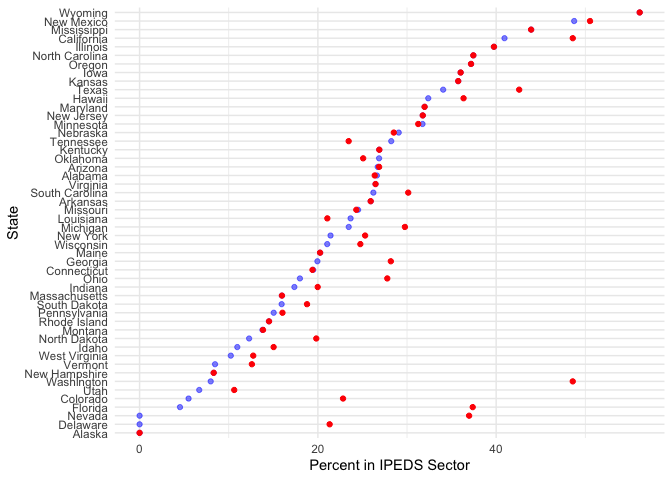
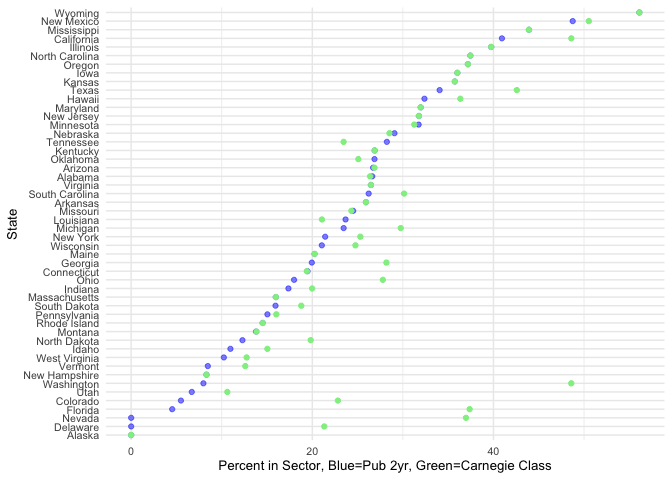
MD document

diff --git a/scripts/ccwhat.md b/scripts/ccwhat.md
@@ -1,9 +1,7 @@
-What is a Commuity College?
+What’s a Community College (Seriously)?
 ================
 Will Doyle
-4/8/2021
-
-## What Is a Community College?
+4/12/2021
 
 In an insightful [New America
 piece](https://www.newamerica.org/education-policy/edcentral/a-different-approach-to-free-community-college/),
@@ -33,14 +31,15 @@ two year institutions that don’t award any bachelor’s degrees:
 
 ## Percent of Students Enrolled in Public Two-Year Colleges, by State: 2019
 
-![](ccwhat_files/figure-gfm/unnamed-chunk-10-1.png)<!-- --> Source:
-IPEDS, 2019
+![](ccwhat_files/figure-gfm/unnamed-chunk-10-1.png)<!-- -->
+
+Source: IPEDS, 2019
 
 This matches up with this
 [table](https://nces.ed.gov/programs/digest/d19/tables/dt19_304.80.asp)
 published by NCES in 2020. There are some surprises here: Florida, a
 national leader in the development of community colleges, is reported as
-having about three percent of its enrolllment in public two year
+having about three percent of its enrollment in public two year
 colleges. Delaware and Alaska do not have any students enrolled in
 institutions that the federal government classified as public two-year
 institutions.
@@ -57,6 +56,8 @@ the percent enrolled in public two-year colleges as defined by NCES.
 
 ![](ccwhat_files/figure-gfm/unnamed-chunk-11-1.png)<!-- -->
 
+Source: IPEDS, 2019
+
 Using the Carnegie definition there are considerably higher enrollments
 in Associates institutions as opposed to public two-year institutions.
 The biggest gains would come in the biggest states: Florida adds 280,000
@@ -71,43 +72,50 @@ The simplest way to define an institution as a community college may be
 to use its name. The graph below compares enrollment in public two-year
 institutions with enrollment in institutions that include “community
 college” in their name.
-![](ccwhat_files/figure-gfm/unnamed-chunk-13-1.png)<!-- --> Most states
-have considerably more public two-year colleges than they have
-institutions with the term “Community College’ in their name. For
+![](ccwhat_files/figure-gfm/unnamed-chunk-13-1.png)<!-- -->
+
+Source: IPEDS, 2019
+
+Most states have considerably more public two-year colleges than they
+have institutions with the term “Community College’ in their name. For
 instance, California has about 40 percent of full time equivalent
 students in public two years, but only about 10 percent of them attend
-institutions that call themselves”Community Colleges." Wisconsin,
+institutions that call themselves”community colleges." Wisconsin,
 Georgia, Idaho all go to 0 because they don’t have any institutions
-named community colleges. Limiting eligibnility to institutions that
+named “community” colleges. Limiting eligibility to institutions that
 have the name “community college” would mean 3.5 million fewer students
 with eligibility.
 
 ## Proportion of Degrees
 
-What if we used the proportion of degrees awarded. Sometimes the
+What if we used the proportion of degrees awarded? Sometimes the
 proportion of degrees that are associates is used, but I took another
-tack and insteadd defined it as instituitions where less than half of
-all degrees awarded in a single year are bachelor’s degrees.
+tack and instead defined it as institutions where less than half of all
+degrees awarded in a single year are bachelor’s degrees.
 
 ![](ccwhat_files/figure-gfm/unnamed-chunk-15-1.png)<!-- -->
+
+Source: IPEDS, 2019
 
 The biggest change here is in the very small (population-wise) state of
 Alaska, where most campuses mostly award degrees other than Bachelor’s
 degrees. This definition would result in 3.5 million *more* students
-receiving support than if the public two-year definition were used.
+being in “community colleges” than if the public two-year definition
+were used.
 
 Which is the right definition? I don’t know! It does seem to me that
-focusing on the first two years of public postsecondary education,
-without reference to type of institution is a better way to go. The main
-point is that states are VERY different in the way that they structure
-their systems of higher education, and there are big implications for
-students for any arbitrary definition of “community college” that we
-come up with.
+focusing on the first two years of public higher education, without
+reference to type of institution is a better way to go. The main point
+is that states are VERY different in the way that they structure their
+systems of higher education, and there are big implications for students
+for any arbitrary definition of “community college” that we come up
+with.
 
--   I define students as Full Time Equivalent students, which basically
-    means taking the total number of credit hours and dividing by 12.
-    Headcount enrollment–the actual number of people attending– is
-    really important, but state-to-state comparisons aren’t ideal using
-    headcount becuase of variaiton in state policieis supporting
+-   I define students as Full Time Equivalent (FTE) students, which
+    basically means taking the total number of credit hours and dividing
+    by 12. Headcount enrollment–the actual number of people attending–
+    is really important, but state-to-state comparisons aren’t ideal
+    using headcount because of variation in state policies supporting
     part-time students. The data is from [IPEDS,
-    2019](https://nces.ed.gov/ipeds/use-the-data).
+    2019](https://nces.ed.gov/ipeds/use-the-data). Code available:
+    (<https://github.com/wdoyle42/ccwhat>).
